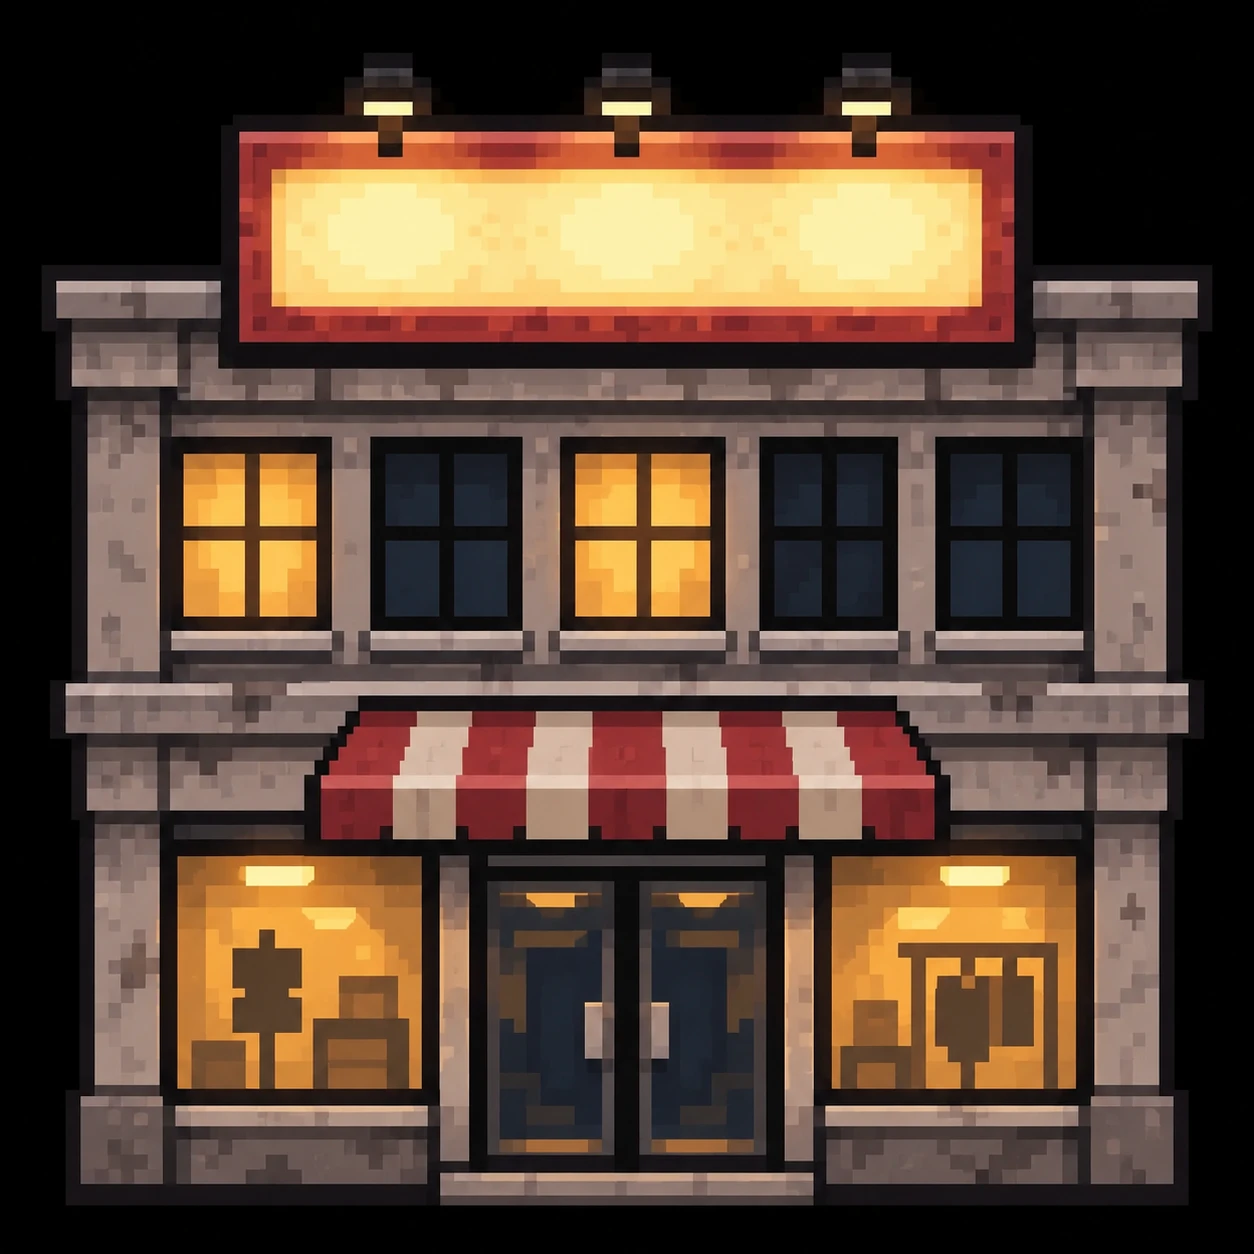
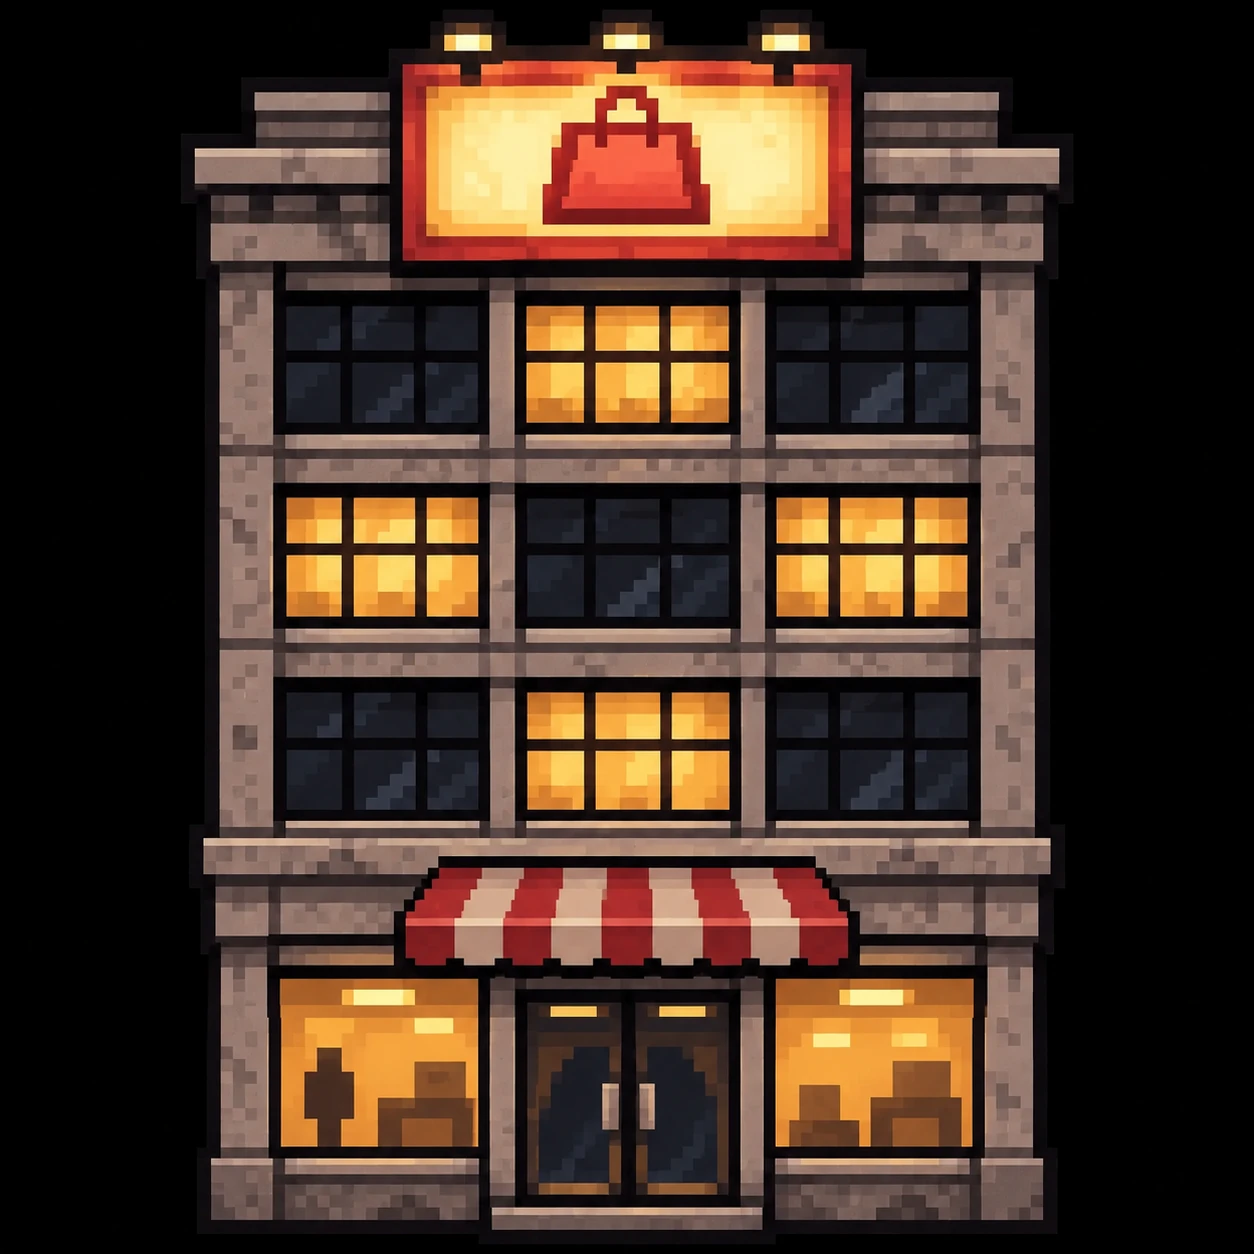
Tarjeta del Centro comercial de «Elige edificio»: el dibujo nuevo de GPT, de cuatro plantas, con la bolsa de la compra en el cartel luminoso (sin letras: a 32 de alto no se leerían), el toldo rojo y blanco y los escaparates con luz; a 23 × 32, como la de los Apartamentos (muebles_gpt.py)

diff --git a/tools/muebles_gpt.py b/tools/muebles_gpt.py
@@ -32,9 +32,9 @@ MUEBLES = {
     # estaban), a 32 de alto como los demás: el
     # edificio de los Apartamentos, de ladrillo con escaleras de incendios, de noche (9 nov)
     "icono_apartamentos": ("assets/sources/apartamentos-gpt.webp", "assets/ui/tarjeta-apartamentos.png", 25, 32, False),
-    # y el del Centro comercial, a juego: dos plantas de hormigón, el cartel luminoso sin letras, el toldo rojo y blanco
-    # y los escaparates con luz (11 nov, bloque M; casi cuadrado: 32 × 32)
-    "icono_centro": ("assets/sources/centro-gpt.webp", "assets/ui/tarjeta-centro.png", 32, 32, False),
+    # y el del Centro comercial, a juego: cuatro plantas de hormigón, el cartel luminoso con la bolsa de la compra (sin
+    # letras: a 32 de alto no se leerían), el toldo rojo y blanco y los escaparates con luz (11 nov, bloque M)
+    "icono_centro": ("assets/sources/centro-gpt.webp", "assets/ui/tarjeta-centro.png", 23, 32, False),
     # y el candado de los edificios cerrados, de acero gastado con óxido; el hueco del arco, que el fondo no alcanza
     # desde el borde, se vacía también (la semilla, en el medio del arco de la imagen de GPT)
     "icono_candado": ("assets/sources/candado-gpt.webp", "assets/ui/tarjeta-candado.png", 22, 32, False, (), [(640, 350)]),
